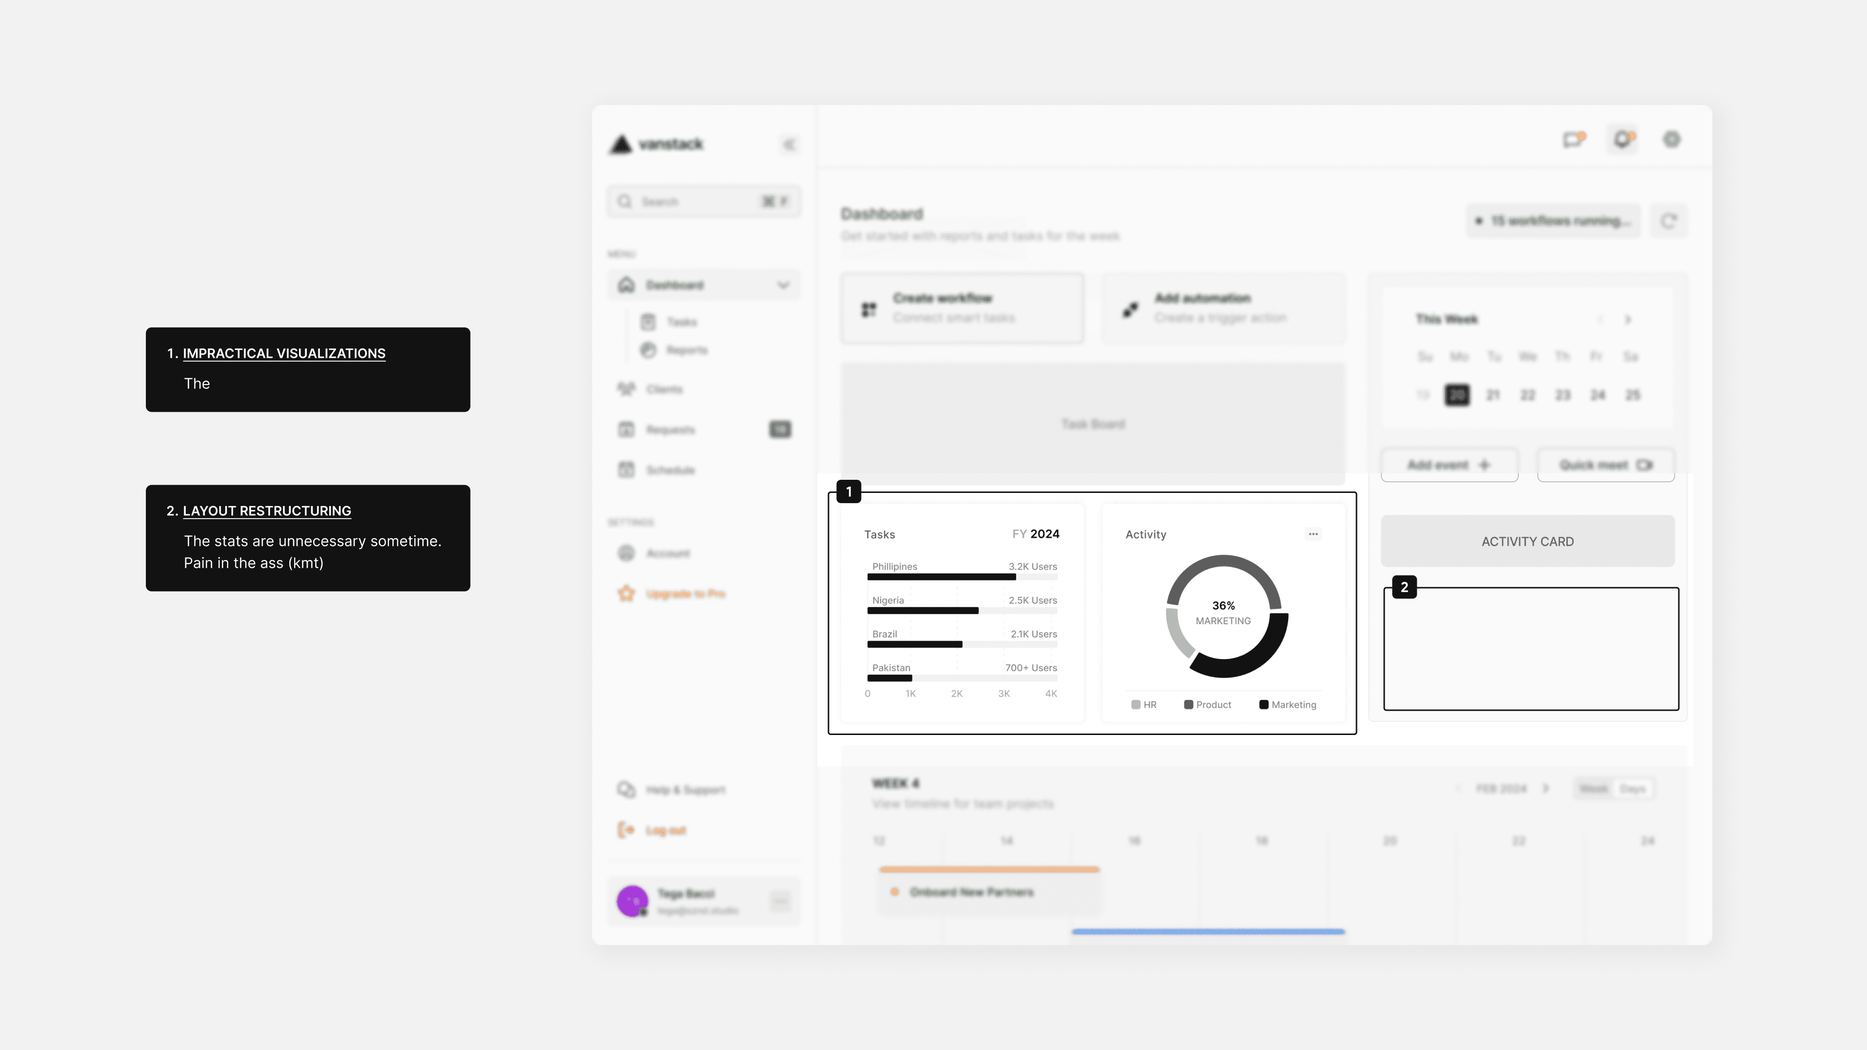
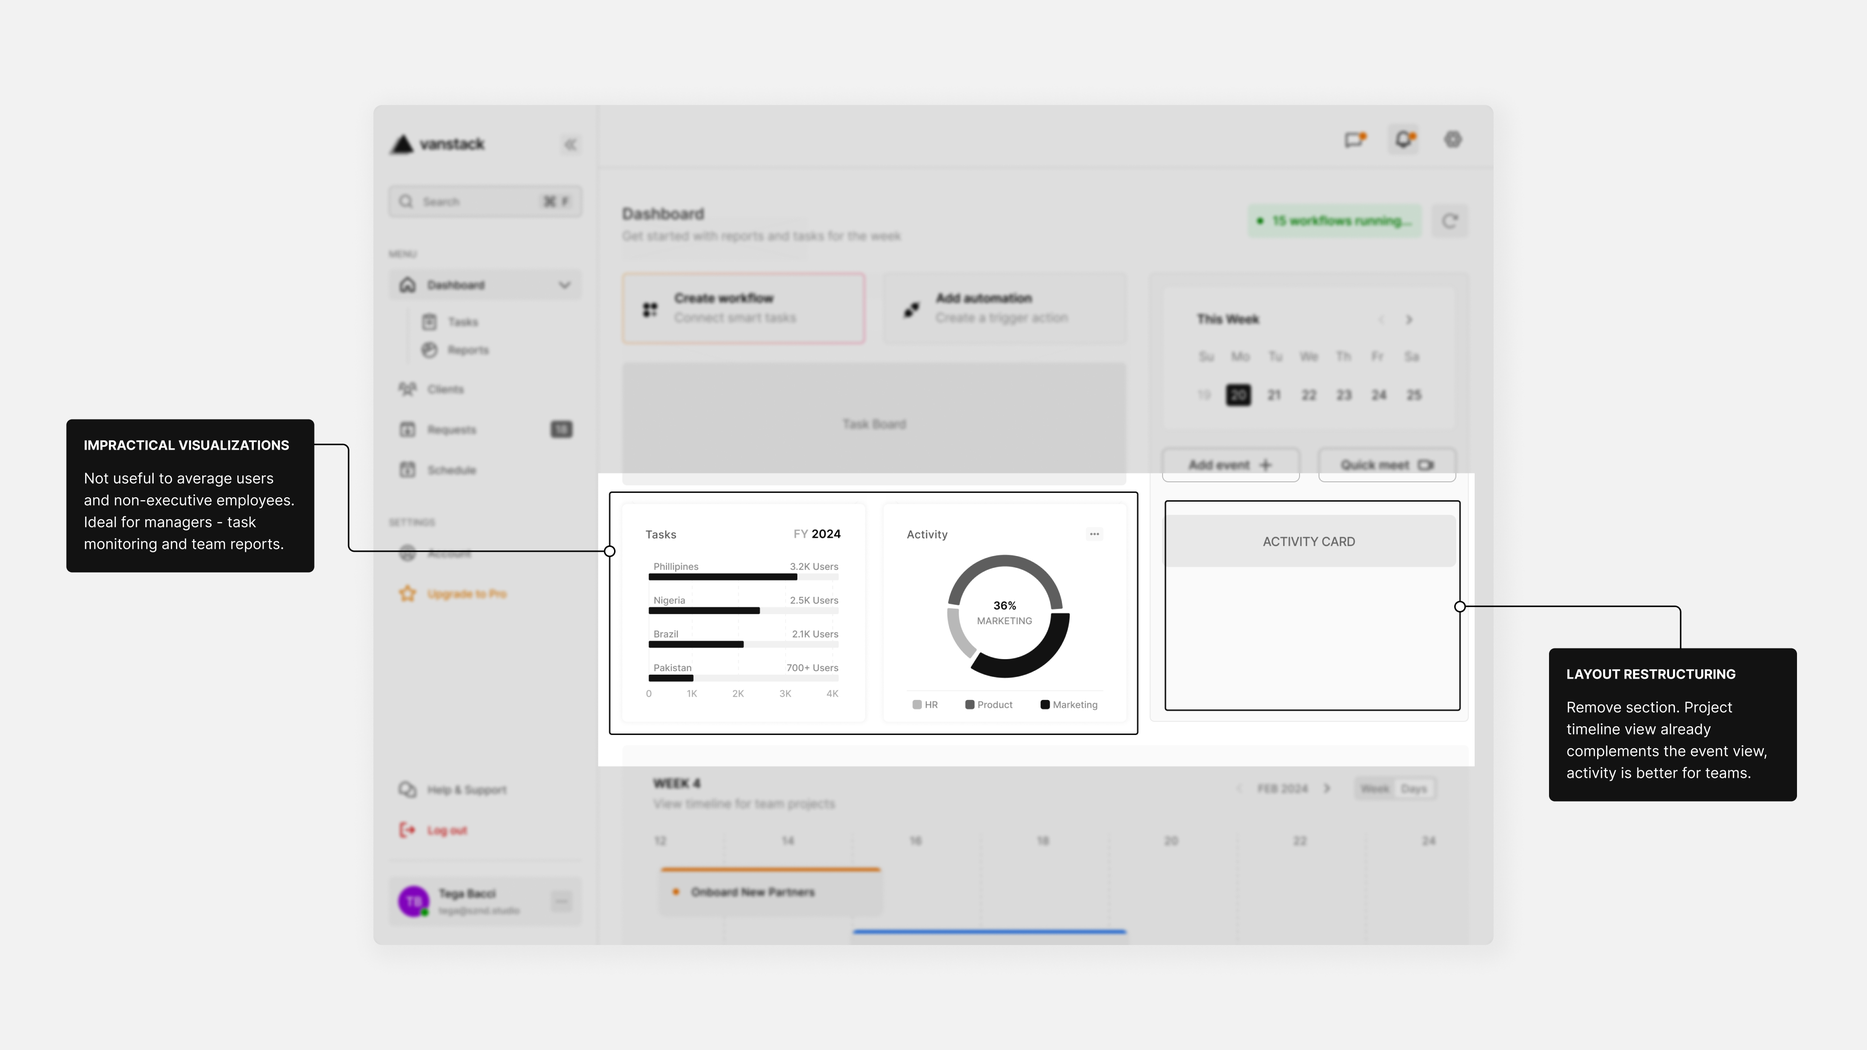
Vanstack done 100%

diff --git a/projects/vanstack.html b/projects/vanstack.html
@@ -134,8 +134,8 @@
                 <div class="grid-auto">
                     <div class="header">The idea</div>
                     <div class="text-block">
-                        <p>A business process to perform a task from the initial stage to completion is called a workflow. Take sales, for instance, which includes prospecting, lead conversion, negotiation, and product or service purchase - this workflow is often called a sales pipeline. On each workflow, desk employees use at least 8 different tools, this sums up to 4x company-wide on average.</p>
-                        <p>For sales, tools like emails, meetings, transcripts, and CRMs like Pipedrive are used. Many subtasks in these workflows are repetitive for each sale - monotonous. There should be a smarter more efficient way to handle this right?</p>
+                        <p>First, a business process to perform a task from start to finish is called a workflow. Take sales, for instance, which includes prospecting, lead conversion, negotiation, and product or service purchase - this workflow is often called a sales pipeline. On each workflow, desk employees use at least 8 different tools, this sums up to 4x company-wide on average.</p>
+                        <p>For sales, tools for emails, meetings, transcripts, and CRMs like Pipedrive are used. Many subtasks in these workflows are repetitive for each sale - monotonous. There should be a smarter more efficient way to handle this right?</p>
                         <div class="callout">..This is where automation comes in</div>
                     </div>
                 </div>
@@ -178,7 +178,7 @@
                 <div class="grid-auto">
                     <div class="header">Prototyping</div>
                     <div class="text-block">
-                        <p>To begin the design phase, I outlined core modules and drafted a list of views for the home page. I kickstarted this process by putting pen to paper, sketching layout ideas with responsiveness in mind. On the web users scan pages in F-patterns, with the top-left usually getting the most engagement. Using this insight, primary CTA’s and the workflow editor were positioned as top priority.</p>
+                        <p>To begin the design phase, I outlined core modules and drafted a list of views for the home page. I kickstarted this process by putting pen to paper, sketching layout ideas with responsiveness in mind. Users often scan webpages in F-patterns, with the top-left usually getting the most engagement. Using this insight, primary CTA’s and the workflow editor were positioned as top priority.</p>
                     </div>
                 </div>
 
@@ -189,9 +189,9 @@
 
                 <!-- Components -->
                 <div class="grid-auto">
-                    <div class="header">Design Language</div>
+                    <div class="header">Design System</div>
                     <div class="text-block">
-                        <p>Products with a unified visual form give customers consistent and familiar experience with every use. Starting with a style guide, I took a modular design approach to building components. Best-practices in accessibility of web content such as contrast and text-spacing were implemented. For documentation, I noted the behaviour and states of component for development.</p>
+                        <p>Products with a unified visual form give customers a consistent and familiar experience with every use. Starting with a style guide, I took a modular design approach to building components. Best-practices in accessibility of web content such as contrast and text-spacing were followed by design. For documentation, I noted the behaviour and states of components for development.</p>
                     </div>
                 </div>
                 
@@ -204,20 +204,20 @@
                 <div class="grid-auto">
                     <div class="header">Iterations</div>
                     <div class="text-block">
-                        <p>one way to achieve this was iterative design. For instance on the home screen layout.</p>
+                        <p>The usability of the dashboard and consisting views were evaluated often. With high fidelity comes great detail and key challenges in design choices. In order not to overwhelm the user, the question “does the user need this?” helped narrow elements down and reduce clutter. As seen here, data visualizations and activity were deemed excessive for this page and removed.</p>
                     </div>
                 </div>
                 
                 <div class="image">
                     <img src="imgs/vanstack/x-4.png" alt=".png">
-                    <div class="subtitle">Dashboard- Iteration #1</div>
+                    <div class="subtitle">Dashboard - Iteration #2</div>
                 </div>
 
                 <!-- Development -->
                 <div class="grid-auto">
                     <div class="header">Development</div>
                     <div class="text-block">
-                        <p>Recall, a product like this .</p>
+                        <p>Moving into development, typefaces and other assets were fetched to build the webpage. Elements were structured to be keyboard-navigable and responsive. To ensure users are informed when the link is shared on social media, open graph and meta tags were used to provide details in a rich view. Visit the website <a class="link" target="_blank" href="https://heroic-crisp-1c5a2f.netlify.app/vanstack-web/">here</a>.</p>
                     </div>
                 </div>
                 
@@ -232,33 +232,21 @@
                 <div class="grid-auto">
                     <div class="header">Features</div>
                     <div class="text-block">
-                        <p>The web application an digital engine for your company helping you maximize performance across your company.</p>
-                        <p>Now, the landing page! Reminders across multiple channels, including SMS, email, and in-app notifications increase the likelihood of timely repayments. Furthermore, diverse repayment methods such as USSD, bank transfers, and card auto-debit, cater to the user's individual preferences and ease the repayment process. </p>
+                        <p>In less than a month, this personal project went from idea to a functional prototype. Automating tasks and integrating tools to help businesses run on autopilot.</p>
+                        <p>The hero view captures the attention of visitors and clear engaging copy in subsequent sections keep them reading. By using reusable style variables, consistency as intended by design can be maintained. Text alternatives for non-text content such as images were also added to improve overall accessibility.</p>
                     </div>
                 </div>
 
                 <figure class="image figure">
                     <img src="imgs/vanstack/x-7.png" alt="" data-alt="imgs/vanstack/site.gif">
-                    <div class="subtitle">Repayment flow</div>
+                    <div class="subtitle">Landing page</div>
                 </figure>
 
-                <div class="grid-auto">
-                    <div class="header">Collaborate</div>
-                    <div class="text-block">
-                        <p>Stay in the loop. one way to achieve this was iterative design. For instance on the home screen layout.</p>
-                    </div>
-                </div>
-                
-                <div class="image">
-                    <img src="imgs/vanstack/x-8.png" alt=".png">
-                    <div class="subtitle">Notifications and requests</div>
-                </div>
 
                 <div class="grid-auto">
                     <div class="header">Product Tour</div>
                     <div class="text-block">
-                        <p>The web application an digital engine for your company helping you maximize performance across your company.</p>
-                        <p>Now, the landing page! Reminders across multiple channels, including SMS, email, and in-app notifications increase the likelihood of timely repayments. Furthermore, diverse repayment methods such as USSD, bank transfers, and card auto-debit, cater to the user's individual preferences and ease the repayment process. </p>
+                        <p>It takes a while for the average employee to use most tools effectively as the learning curve might be steep. To mitigate this, on-screen tutorials give first time users a walkthrough of the product. Pre-curated workflow templates were also considered to ensure teams can easily get started automating in a few minutes.</p>
                     </div>
                 </div>
 
@@ -266,6 +254,19 @@
                     <img src="imgs/vanstack/x-9.png" alt="" data-alt="imgs/vanstack/tooltip.gif">
                     <div class="subtitle">Dashboard Walkthrough</div>
                 </figure>
+
+
+                <div class="grid-auto">
+                    <div class="header">Collaborate</div>
+                    <div class="text-block">
+                        <p>Teamwork is crucial to the success of a business so communication was enabled in the app. With integrations and messaging built in, team members can always stay in sync. Notifications were designed to be non-intrusive, keeping individuals informed on active automations, tasks assigned and requests.</p>
+                    </div>
+                </div>
+                
+                <div class="image">
+                    <img src="imgs/vanstack/x-8.png" alt=".png">
+                    <div class="subtitle">Notifications and requests</div>
+                </div>
                 
 
                 <!-- *** Primary CTA's / Project links go here *** -->
@@ -280,18 +281,22 @@
                 <div class="grid-auto">
                     <div class="header">Learning Outcomes</div>
                     <div class="text-block gap-1">
-                        <p>As the product evolves following go-to-market and user needs get more and more complex, a few possible next steps to consider are:</p>
+                        <p>It was a rewarding experience working on this, despite being a side project. It helped bring to light gaps to bridge between design and development, especially for web. A few areas I gained new understanding in are:</p>
                         <ul class="next-steps">
                             <li>
-                                <p>Increase borrowing power of users across other platforms on request to access.</p>
+                                <p><span class="bold">Cross browser compatibility</span>:
+                                    Due to varying support of CSS properties across browsers, fallbacks and prefixes can be used.
+                                </p>
                             </li>
                             <li>
-                                <p><span class="bold">Custom internal dashboard</span>:
-                                Implement back-office loan management system to replace rigid white label software in use currently.</p>
+                                <p><span class="bold">Pseudo classes and stateful design</span>:
+                                    Implementing component interactions and behaviours by styling states such as ::before, :active or :hover.
+                                </p>
                             </li>
                             <li>
-                                <p><span class="bold">Collaborations</span>:
-                                Explore partnerships with financial institutions to offer diverse financial products to users such as BNPL and savings accounts.</p>
+                                <p><span class="bold">Content delivery</span>:
+                                    For faster load times and better web performance, CDN’s can be used to store and distribute site media.
+                                </p>
                             </li>
                         </ul>
                     </div>
@@ -299,14 +304,25 @@
 
 
                 <div class="pad-y">
-                    <p>Visit the website <a href="#" class="link">here</a>.</p>
+                    <p>Visit the website <a target="_blank" href="https://heroic-crisp-1c5a2f.netlify.app/vanstack-web/" class="link">here</a>.</p>
                 </div>
 
                 <!-- Continue viewing -->
                 <div class="see-more">
                     <div class="subtitle">See more of my work here</div>
                     <div class="grid-auto project-links gap-6">
-                        <a href="" class="project-link-card">
+                        <a href="accredit.html" class="project-link-card">
+                            <div class="flex">
+                                <p class="bold">Accredit</p>
+                                <svg xmlns="http://www.w3.org/2000/svg" width="20" height="21" viewBox="0 0 20 21" fill="none">
+                                    <path d="M5.83325 14.6663L14.1666 6.33301" stroke="black" stroke-width="1.5" stroke-linecap="round" stroke-linejoin="round"/>
+                                    <path d="M5.83325 6.33301H14.1666V14.6663" stroke="black" stroke-width="1.5" stroke-linecap="round" stroke-linejoin="round"/>
+                                </svg>
+                            </div>
+                            <p style="margin-top: 12px;">Designing the brand and product experience of a mobile loan application for both individuals and businesses</p>
+                        </a>
+
+                        <a class="project-link-card">
                             <div class="flex">
                                 <p class="bold">Citisquare</p>
                                 <svg xmlns="http://www.w3.org/2000/svg" width="20" height="21" viewBox="0 0 20 21" fill="none">
@@ -316,19 +332,9 @@
                             </div>
                             <p style="margin-top: 12px;">Maximizing usability to create a personalized, scalable and intuitive e-commerce for users on the web</p>
                         </a>
-                        <a href="accredit.html" class="project-link-card">
-                            <div class="flex">
-                                <p class="bold">Accredit</p>
-                                <svg xmlns="http://www.w3.org/2000/svg" width="20" height="21" viewBox="0 0 20 21" fill="none">
-                                    <path d="M5.83325 14.6663L14.1666 6.33301" stroke="black" stroke-width="1.5" stroke-linecap="round" stroke-linejoin="round"/>
-                                    <path d="M5.83325 6.33301H14.1666V14.6663" stroke="black" stroke-width="1.5" stroke-linecap="round" stroke-linejoin="round"/>
-                                  </svg>
-                            </div>
-                            <p style="margin-top: 12px;">Designing the brand and product experience of a mobile loan application for both individuals and businesses</p>
-                        </a>
                     </div>
                 </div>
-
+                
                 <!-- Let's work together - CTA -->
                 <div class="flex stack">
                     <svg xmlns="http://www.w3.org/2000/svg" width="24" height="24" viewBox="0 0 24 24" fill="none">
@@ -356,7 +362,7 @@
                 <div class="breadcrumb">
                     <a href="#" class="inactive">solaszn</a>
                     /
-                    <a href="">accredit</a>
+                    <a>vanstack</a>
                 </div>
                 <div class="language-switcher">
                     <svg xmlns="http://www.w3.org/2000/svg" width="24" height="24" viewBox="0 0 24 24" fill="none">
@@ -365,7 +371,7 @@
                         <path d="M12 2C14.5013 4.73835 15.9228 8.29203 16 12C15.9228 15.708 14.5013 19.2616 12 22C9.49872 19.2616 8.07725 15.708 8 12C8.07725 8.29203 9.49872 4.73835 12 2V2Z" stroke="#222222" stroke-width="1.5" stroke-linecap="round" stroke-linejoin="round"/>
                         </svg>
                     <a href="../fr/index.html" id="french" class="lang inactive">FR</a>
-                    <a href="" id="english" class="lang">EN</a>
+                    <a id="english" class="lang">EN</a>
                 </div>
             </div>
         </div>

diff --git a/projects/accredit.html b/projects/accredit.html
@@ -250,7 +250,7 @@
                 <div class="grid-auto">
                     <div class="header">Styles and components</div>
                     <div class="text-block">
-                        <p>Circling back on the canvas, the goal for the brand identity was simplicity and continuity. From ideating on various logo ideas to foundational visual elements, the client made their pick. Accredit - your bridge to credit, positioned to be warm, bold and to communicate with a direct tone. For more on the brand design process, view this <a class="link" href="">presentation</a>.</p>
+                        <p>Circling back on the canvas, the goal for the brand identity was simplicity and continuity. From ideating on various logo ideas to foundational visual elements, the client made their pick. Accredit - your bridge to credit, positioned to be warm, bold and to communicate with a direct tone. For more on the brand design process, view this <a class="link">presentation</a>.</p>
                         <p>To design for scalability and visual consistency, I created styles in line with mobile platform guidelines; and a library of 40+ basic reusable components, forming the building blocks of Accredit’s design system.</p>
                     </div>
                 </div>
@@ -411,16 +411,6 @@
                 <div class="see-more">
                     <div class="subtitle">See more of my work here</div>
                     <div class="grid-auto project-links gap-6">
-                        <a href="" class="project-link-card">
-                            <div class="flex">
-                                <p class="bold">Citisquare</p>
-                                <svg xmlns="http://www.w3.org/2000/svg" width="20" height="21" viewBox="0 0 20 21" fill="none">
-                                    <path d="M5.83325 14.6663L14.1666 6.33301" stroke="black" stroke-width="1.5" stroke-linecap="round" stroke-linejoin="round"/>
-                                    <path d="M5.83325 6.33301H14.1666V14.6663" stroke="black" stroke-width="1.5" stroke-linecap="round" stroke-linejoin="round"/>
-                                  </svg>
-                            </div>
-                            <p style="margin-top: 12px;">Maximizing usability to create a personalized, scalable and intuitive e-commerce for users on the web</p>
-                        </a>
                         <a href="vanstack.html" class="project-link-card">
                             <div class="flex">
                                 <p class="bold">Vanstack</p>
@@ -430,6 +420,17 @@
                                   </svg>
                             </div>
                             <p style="margin-top: 12px;">Exploration of B2B Saas to automate internal processes, team schedules and redundant tasks easily</p>
+                        </a>
+
+                        <a class="project-link-card">
+                            <div class="flex">
+                                <p class="bold">Citisquare</p>
+                                <svg xmlns="http://www.w3.org/2000/svg" width="20" height="21" viewBox="0 0 20 21" fill="none">
+                                    <path d="M5.83325 14.6663L14.1666 6.33301" stroke="black" stroke-width="1.5" stroke-linecap="round" stroke-linejoin="round"/>
+                                    <path d="M5.83325 6.33301H14.1666V14.6663" stroke="black" stroke-width="1.5" stroke-linecap="round" stroke-linejoin="round"/>
+                                  </svg>
+                            </div>
+                            <p style="margin-top: 12px;">Maximizing usability to create a personalized, scalable and intuitive e-commerce for users on the web</p>
                         </a>
                     </div>
                 </div>
@@ -461,7 +462,7 @@
                 <div class="breadcrumb">
                     <a href="#" class="inactive">solaszn</a>
                     /
-                    <a href="">accredit</a>
+                    <a>accredit</a>
                 </div>
                 <div class="language-switcher">
                     <svg xmlns="http://www.w3.org/2000/svg" width="24" height="24" viewBox="0 0 24 24" fill="none">
@@ -470,7 +471,7 @@
                         <path d="M12 2C14.5013 4.73835 15.9228 8.29203 16 12C15.9228 15.708 14.5013 19.2616 12 22C9.49872 19.2616 8.07725 15.708 8 12C8.07725 8.29203 9.49872 4.73835 12 2V2Z" stroke="#222222" stroke-width="1.5" stroke-linecap="round" stroke-linejoin="round"/>
                         </svg>
                     <a href="../fr/index.html" id="french" class="lang inactive">FR</a>
-                    <a href="" id="english" class="lang">EN</a>
+                    <a id="english" class="lang">EN</a>
                 </div>
             </div>
         </div>

diff --git a/journal.html b/journal.html
@@ -79,12 +79,12 @@
             <div class="content">    
                 <div class="info bio-2">
                     <div class="subtitle-2">Journal</div>
-                    <p>On here, I'll share milestones, goals and the steps I'm taking to grow personally and career wise.</p>
+                    <p>On here, I'll be sharing milestones, goals and the steps I'm taking to grow personally and career wise.</p>
                     <p>In the meantime, feel free to say hello👋 <a href="contact.html" class="link">here</a>.</p>
                 </div>
             </div>
 
-            <img width="200px" src="assets/chaii.jpeg" alt="">
+            <!-- <img width="200px" src="assets/chaii.jpeg" alt=""> -->
 
             <!-- FOOTER -->
             <div class="footer" id="bottom">

diff --git a/projects/styles.css b/projects/styles.css
@@ -530,7 +530,7 @@ body {
     padding: 5px;
     border-radius: 3px;
     color: #656D78;
-    background-color: rgba(170, 178, 189, 0.1);
+    background-color: #f2f2f2bb;
     text-transform: uppercase;
     transition: .35s;
 }
